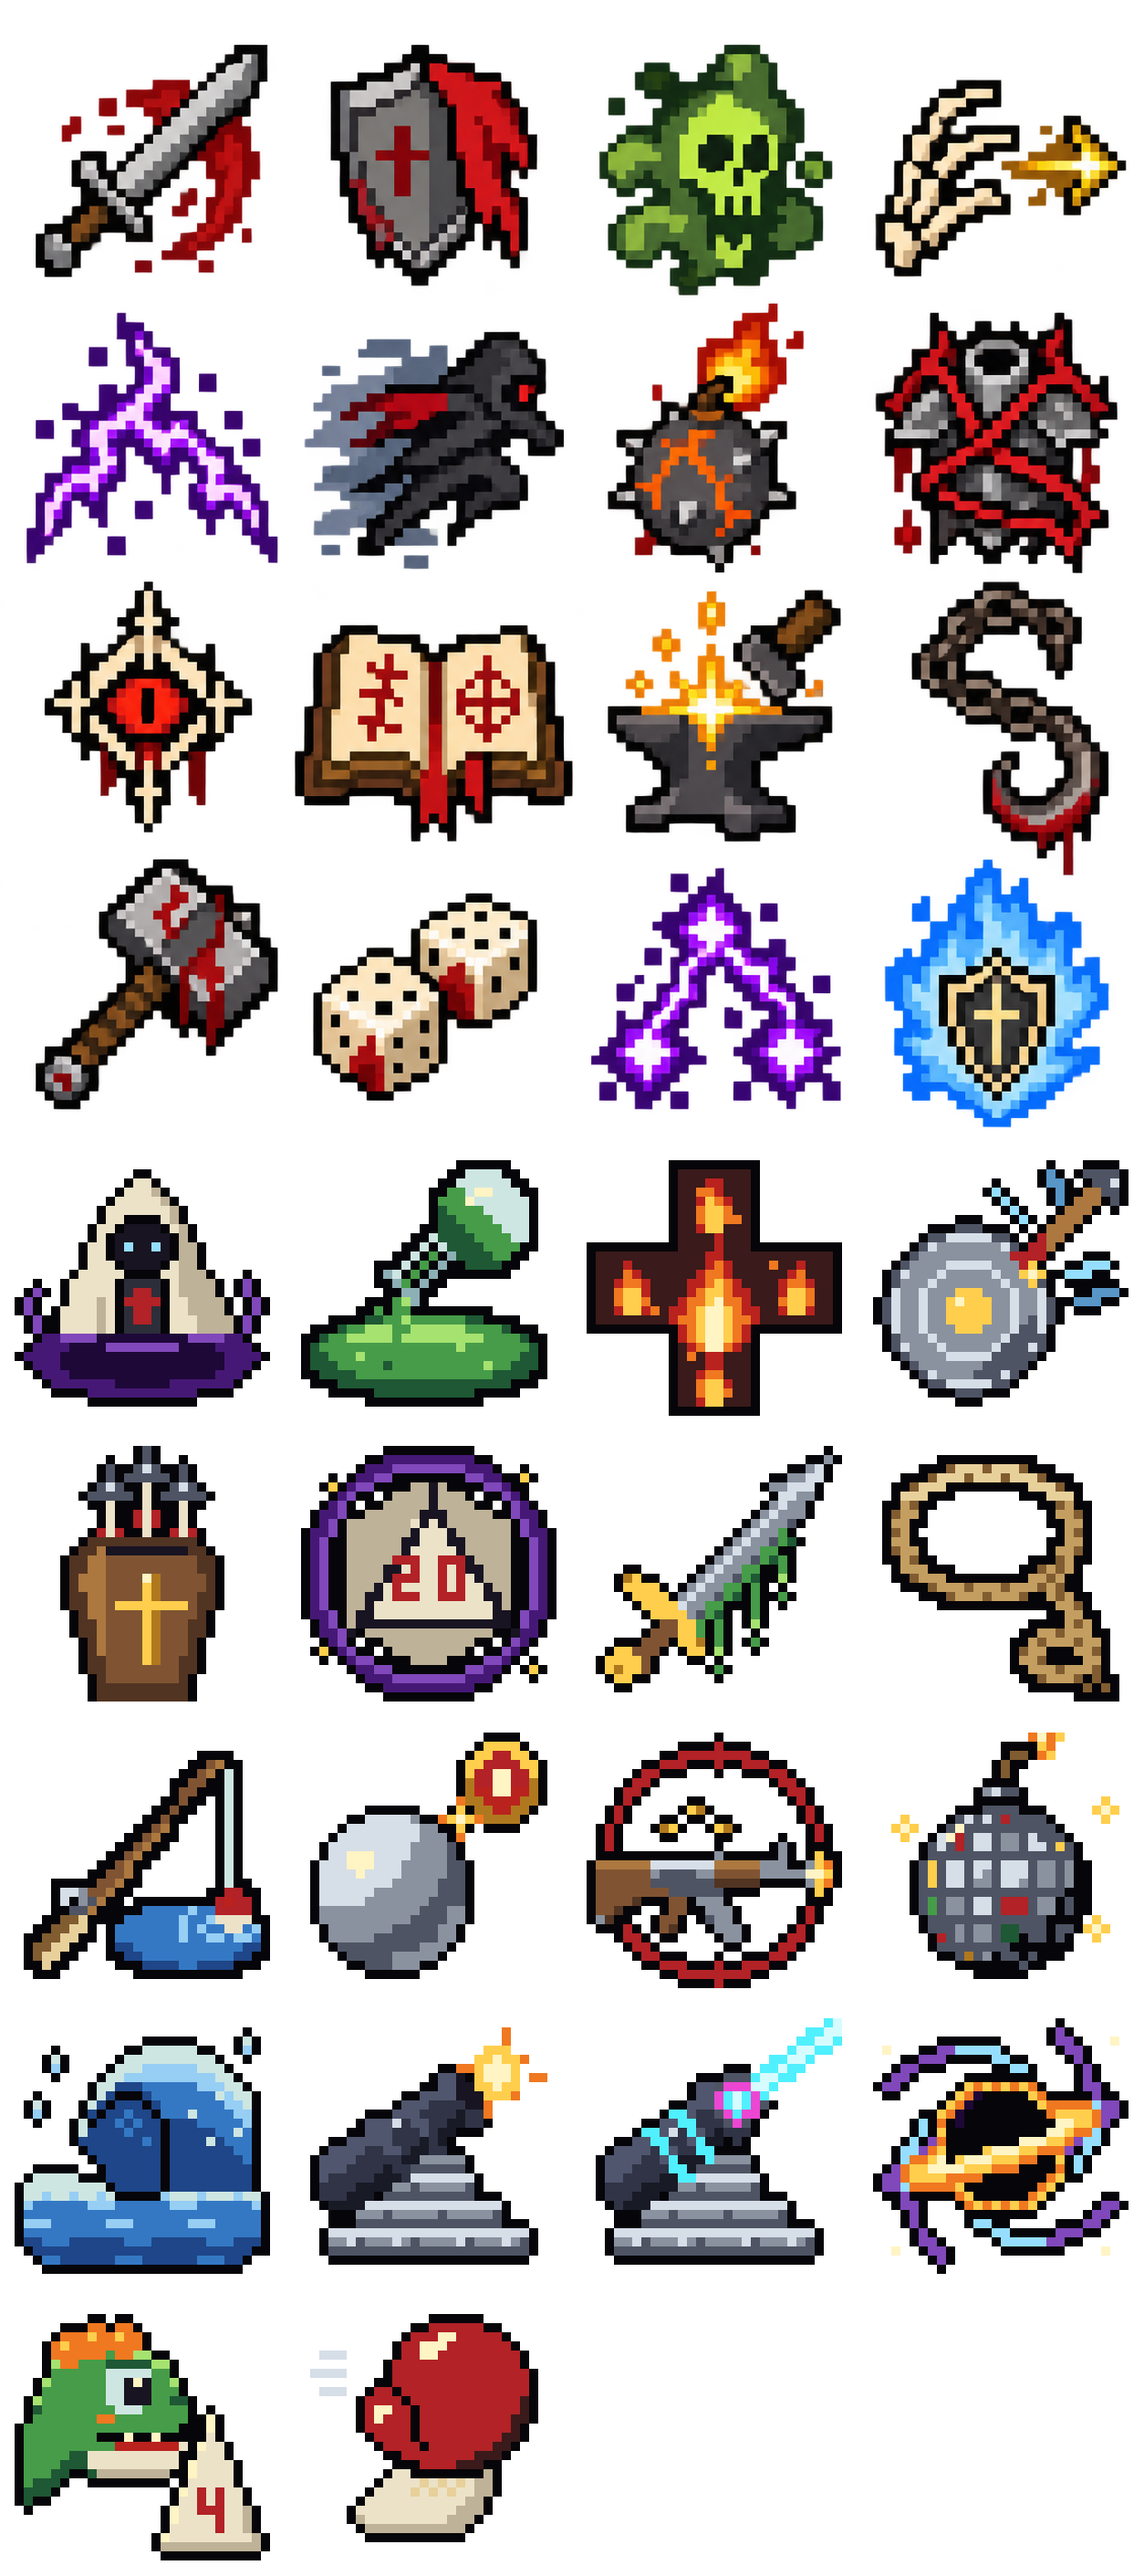
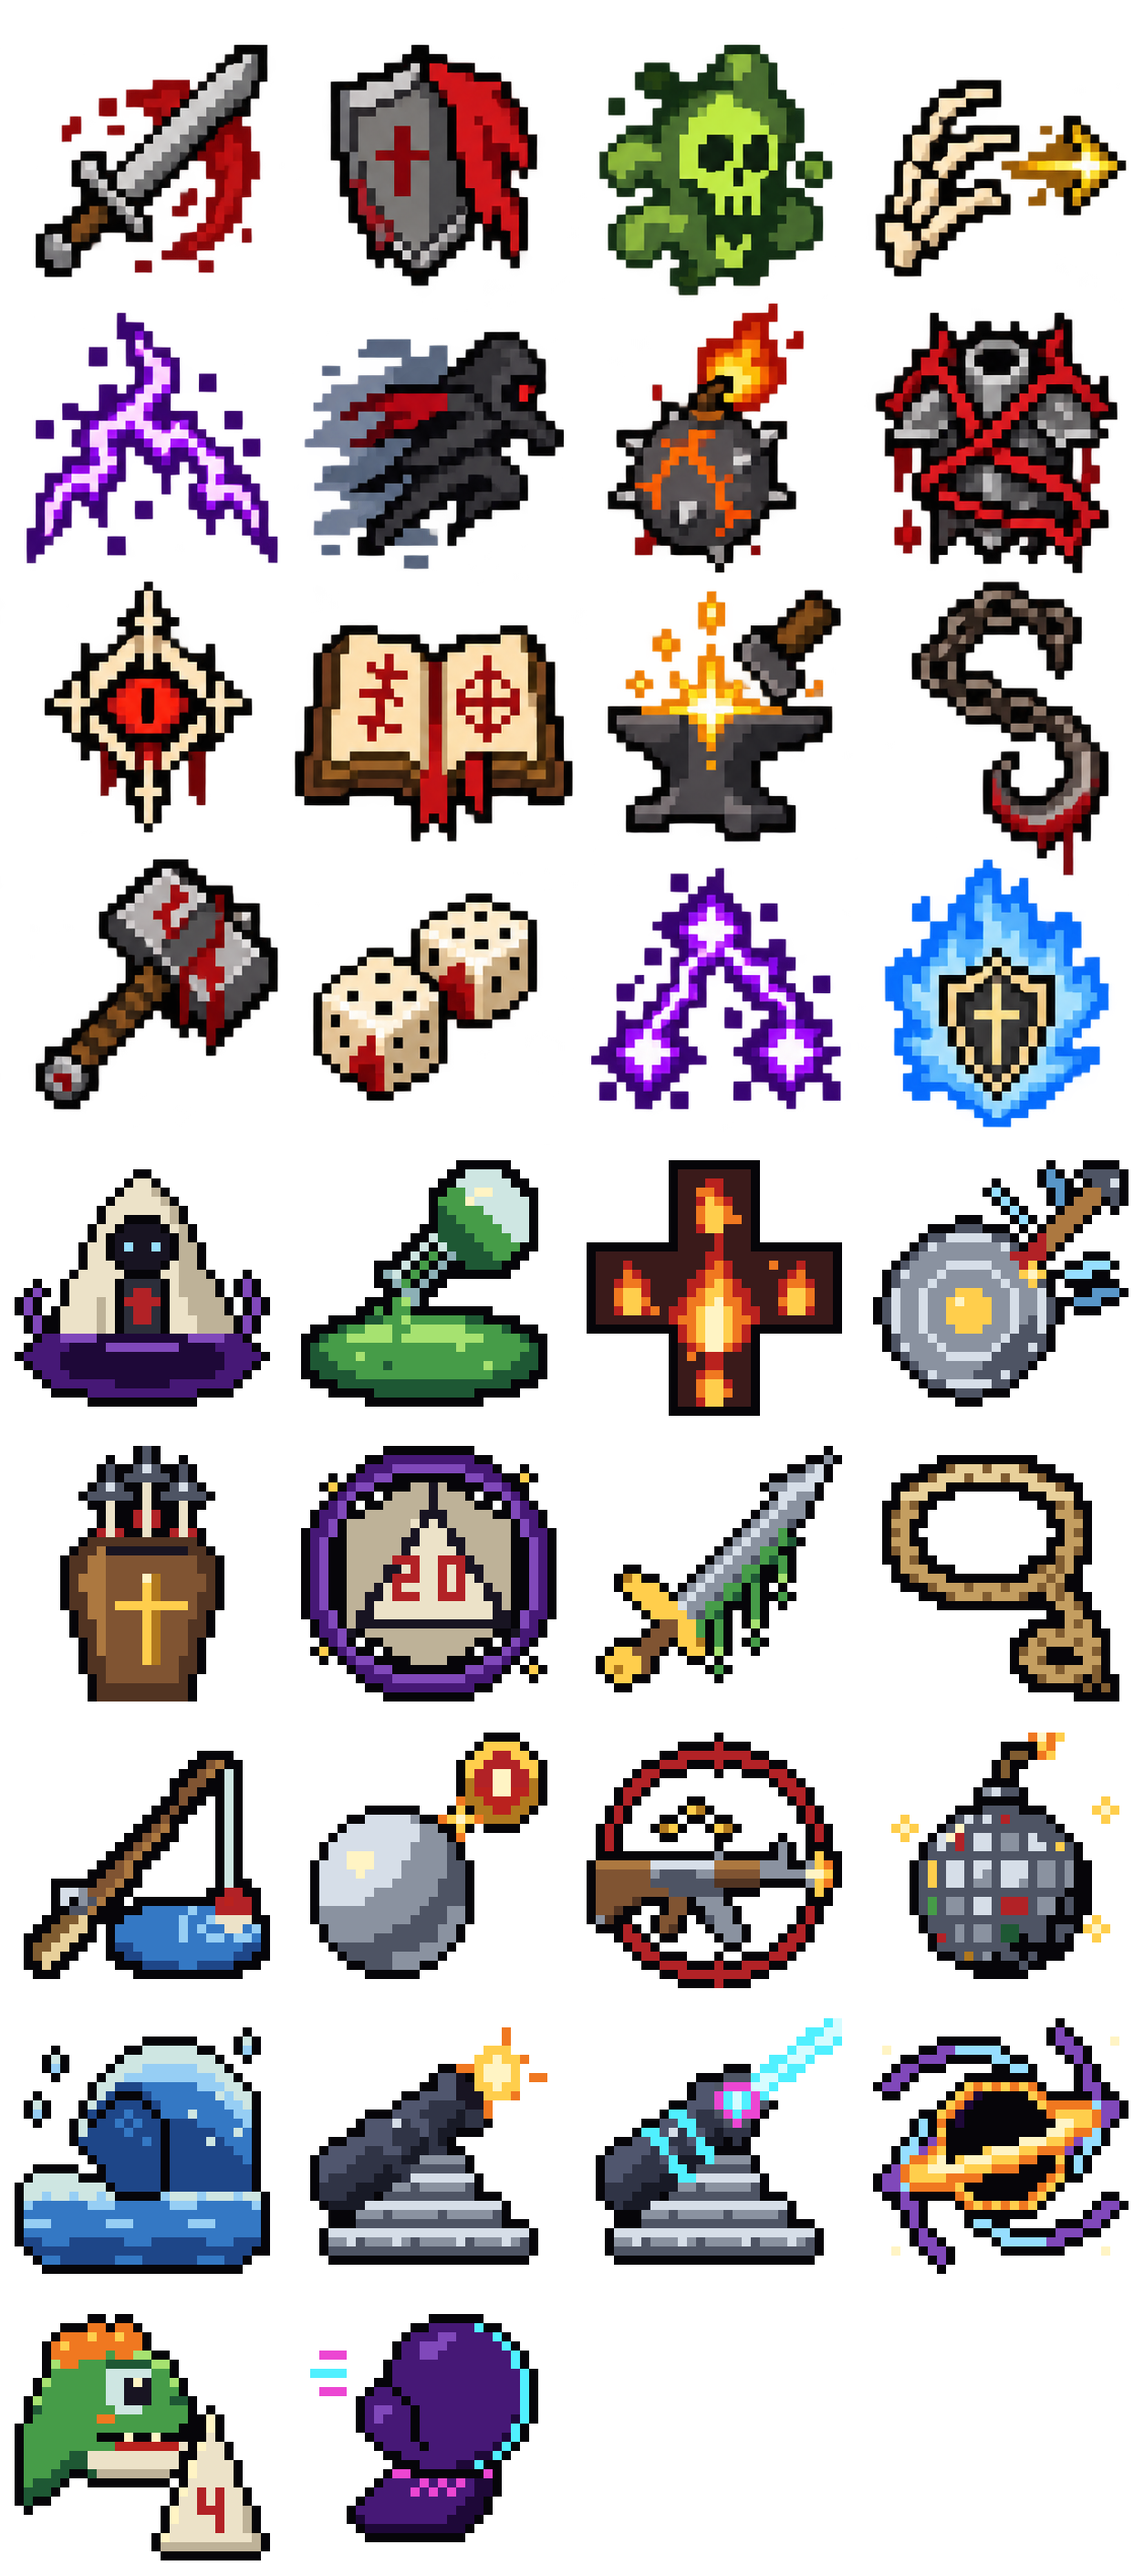
Prima persona, Fase 3, passo 5: icona Neon, tasti nell'ispettore, riquadro magenta
L'icona della carta dei pugni è ridipinta Neon; l'ispettore mostra i tasti dei pugni; ogni arma ha il colore del suo riquadro dei secondi (i pugni magenta, le altre il verde di sempre).

Changed region(s): [[0.2799, 0.9043, 0.4665, 0.9979]]

diff --git a/tools/art/build_card_icons.py b/tools/art/build_card_icons.py
@@ -67,12 +67,12 @@ of a ninth), painted the same way with a few more palette letters:
     cell 32  Dinosauro: a cheerful green cartoon dinosaur head with an orange
              crest, a bone d4 showing a 4 beside it.
 
-Fase 2 of docs/piano-prima-persona.md adds one more, provisional until the
-cybernetic style of its Fase 3:
+docs/piano-prima-persona.md adds one more, in the Neon style of its Fase 3:
 
-    cell 33  First Person Brawler: a red boxing glove thrown up and to the
-             right, its thumb along its side, an ivory cuff laced at the wrist,
-             three strokes of speed behind it.
+    cell 33  First Person Brawler: a violet boxing glove thrown up and to the
+             right with a cyan rim of light, its thumb along its side, a dark
+             cuff under a magenta band, laced in magenta, three strokes of
+             speed behind it.
 
 Options:
     --check        exit 1 if the atlas is not what this script would write
@@ -714,35 +714,37 @@ DINOSAUR = (
 
 ICONS.update({29: CANNON, 30: LASER_CANNON, 31: BLACK_HOLE, 32: DINOSAUR})
 
-# Fase 2 of docs/piano-prima-persona.md: First Person Brawler, a red boxing glove
-# thrown up and to the right (its knuckles lit, its shade along the bottom), the
-# thumb along its left side, an ivory cuff laced at the wrist, speed strokes behind.
+# docs/piano-prima-persona.md, Fase 3 (the Neon style the user chose): First
+# Person Brawler, a violet boxing glove thrown up and to the right (its knuckles
+# lit, its shade along the bottom, a cyan rim of light down its right), the
+# thumb along its left side, a dark cuff under a magenta band, laced in magenta,
+# magenta and cyan speed strokes behind.
 BRAWLER = (
     "............................",
     "..............KKKKKK........",
-    "............KKRRRRRRKK......",
-    "...........KRRRUURRRRRK.....",
-    "..........KRRUUURRRRRRRK....",
-    "..HHH.....KRRUURRRRRRRRRK...",
-    ".........KRRRRRRRRRRRRRRK...",
-    ".HHHH....KRRRRRRRRRRRRRRRK..",
-    "........KKRRRRRRRRRRRRRRRK..",
-    "..HHH..KRRKRRRRRRRRRRRRRRK..",
-    "......KRRRRKRRRRRRRRRRRRAK..",
-    "......KRUURRKRRRRRRRRRRRAK..",
-    "......KRURRRKRRRRRRRRRRAAK..",
-    "......KRRRRRKRRRRRRRRRRAK...",
-    ".......KRRRRKRRRRRRRRRAAK...",
-    "........KRRRRKRRRRRRRAAK....",
-    ".........KKRRRRRRRRAAAK.....",
-    "..........KKKRRRRAAAKK......",
-    ".........KIIKKKKKKKKiK......",
-    "........KIIIIkIkIkIiiK......",
-    ".......KIIIIkIkIkIIiiK......",
-    "......KIIIIIIIIIIIiiK.......",
-    ".....KIIIIIIIIIIIiiiK.......",
-    ".....KiIIIIIIIIIiiiK........",
-    "......KiiiiiiiiiiiK.........",
+    "............KKVVVVVXKK......",
+    "...........KVVVvvVVVVXK.....",
+    "..........KVVvvvVVVVVVXK....",
+    "..PPP.....KVVvvVVVVVVVVXK...",
+    ".........KVVVVVVVVVVVVVXK...",
+    ".XXXX....KVVVVVVVVVVVVVVXK..",
+    "........KKVVVVVVVVVVVVVVXK..",
+    "..PPP..KVVKVVVVVVVVVVVVVXK..",
+    "......KVVVVKVVVVVVVVVVVVXK..",
+    "......KVvvVVKVVVVVVVVVVVXK..",
+    "......KVvVVVKVVVVVVVVVVSXK..",
+    "......KVVVVVKVVVVVVVVVVXK...",
+    ".......KVVVVKVVVVVVVVVSXK...",
+    "........KVVVVKVVVVVVVSXK....",
+    ".........KKVVVVVVVVSSXK.....",
+    "..........KKKVVVVSSXKK......",
+    ".........KPPKKKKKKKKPK......",
+    "........KVVVVPVPVPVSSK......",
+    ".......KVVVVPVPVPVVSSK......",
+    "......KVVVVVVVVVVVSSK.......",
+    ".....KVVVVVVVVVVVSSSK.......",
+    ".....KSVVVVVVVVVSSSK........",
+    "......KSSSSSSSSSSSK.........",
     ".......KKKKKKKKKKK..........",
     "............................",
     "............................",

diff --git a/docs/piano-prima-persona.md b/docs/piano-prima-persona.md
@@ -2572,6 +2572,30 @@ lanciato in alto come ora (consigliato); riquadro dei secondi **magenta neon**,
 rosso negli ultimi 3 s (consigliato); nell'ispettore **più comandi**, cioè anche i
 tasti dei pugni (non la mia raccomandazione, che era una riga sui segni).
 
+**Passo 5 — icona, sigla, parole, HUD: fatto** (2026-10-29).
+- **Icona** (cella 33 dell'atlante, `tools/art/build_card_icons.py`, `--check`
+  pulito): il guantone di prima ridipinto Neon: viola con la luce sulle nocche,
+  un bordo di luce ciano lungo il lato destro, il polsino scuro sotto una fascia
+  magenta con i lacci magenta, tre strisce magenta e ciano dietro.
+- **Sigla** `FPB` (già quella della carta e del riquadro); per spada e arco
+  restano `FPF` e `FPA`.
+- **Ispettore:** «SX JAB / DX CROSS / SHIFT GANCI» e «WASD LIBERO / SPAZIO
+  SALTA» (le righe rosse sono due: «niente carte» lascia il posto ai tasti dei
+  pugni). Le parole della carta restano «PRIMA PERSONA 20s / PUGNI 3/4/6,
+  CRITICO x3».
+- **Riquadro dei secondi:** ogni arma ha il suo colore (`First_Person_Look.accent`):
+  l'AK, la spada e l'arco il verde oliva di sempre, i pugni il **magenta** dei
+  guantoni; rosso per tutte negli ultimi 3 s.
+- Catture guardate: carta e ispettore, riquadro magenta. L'atto `fps` resta
+  **114 su 114** uguale alla Fase 0.
+
+**Domande per il passo 6** (risposte dell'utente): pugni **guantoni veri e
+neon** (fruscio, tonfo di cuoio più pesante dal jab ai ganci, un piccolo ronzio
+elettrico; consigliato); critico **tonfo forte e campanello** (consigliato);
+musica **dopo la campanella, in dissolvenza** di mezzo secondo, un po' più bassa
+degli effetti (consigliato); al segno che si accende **un tic leggero**, diverso
+per ogni pugno (non la mia raccomandazione, che era nessun suono).
+
 ## 13. Fase 4 — Spada: swing col mouse, parata, rampino; prototipo
 
 ### Obiettivo

diff --git a/docs/registro-carte.md b/docs/registro-carte.md
@@ -17,6 +17,8 @@ Commit **«Prima persona, Fase 2: critico senza mira e guantoni 3D»** sul ramo
 - **Aspetto:** i guantoni rossi di carta ai lati diventano guantoni in guardia al centro in basso: un modello 3D disegnato
   come pixel art di cartoncino (tinte piene, inchiostro, bordo di carta e spessore). Prima neri e oro; poi (Fase 3, scelta
   dell'utente) **Neon**: carbonio viola scuro, fasce e tubi magenta, bordo di luce ciano.
+- **Icona e ispettore** (Fase 3): icona del guantone ridipinta Neon; nell'ispettore «SX JAB / DX CROSS / SHIFT GANCI» al
+  posto di «NIENTE CARTE: SOLO I PUGNI»; riquadro dei secondi magenta.
 - Danni, tempi, rarità, energia e durata non cambiano.
 
 ## 2026-10-28 — Carta nuova: First Person Brawler (solo laboratorio)

diff --git a/CHANGELOG.md b/CHANGELOG.md
@@ -16,6 +16,7 @@ per i comandi disponibili oggi valgono il [README](README.md) e la documentazion
 - **Strisce di velocità** su ogni pugno: raggi magenta e ciano intorno alle nocche, scie lungo la curva dei ganci.
 - **Segni critici** in pixel art di cartoncino (anello neon con la freccia o l'arco, inchiostro e bordo di carta) e
   **stella d'oro** del critico che scoppia, gira e svanisce in mezzo secondo, con le scintille.
+- **Icona Neon** della carta, tasti dei pugni nell'ispettore, riquadro dei secondi magenta.
 - L'AK resta identico (114 catture su 114 uguali alla Fase 0).
 
 ## 2026-10-29 — Prima persona, Fase 2: critico senza mira e guantoni 3D
